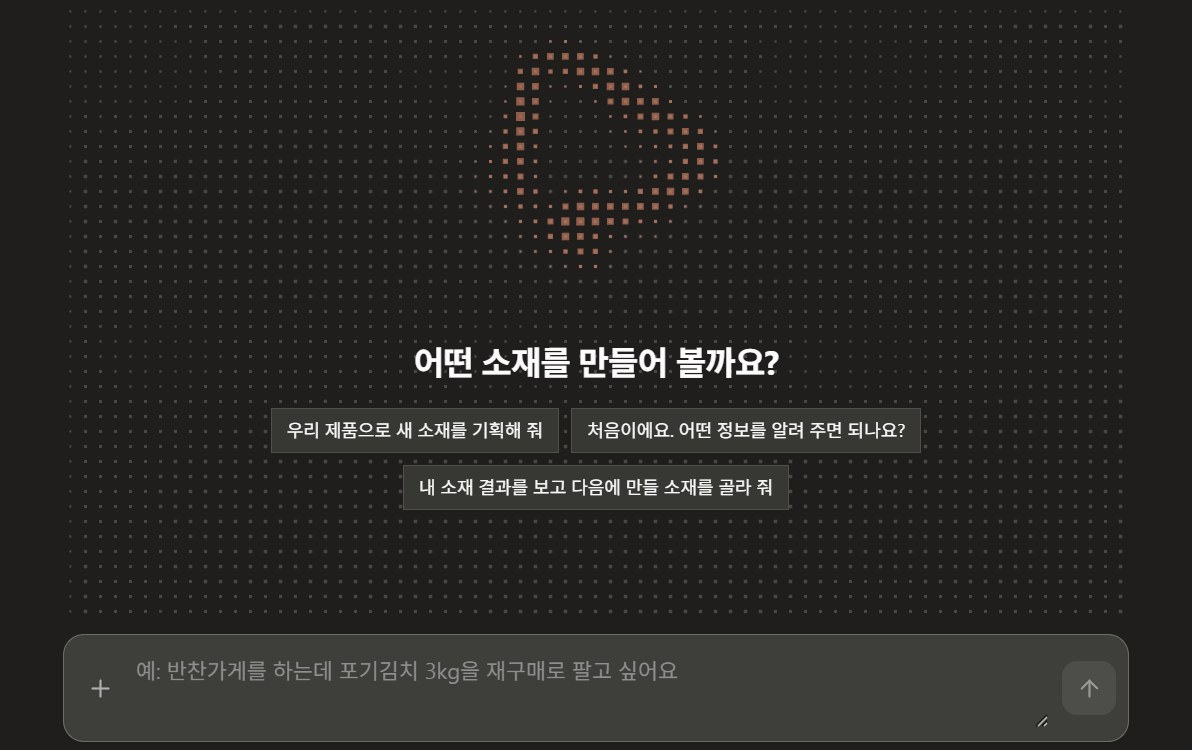
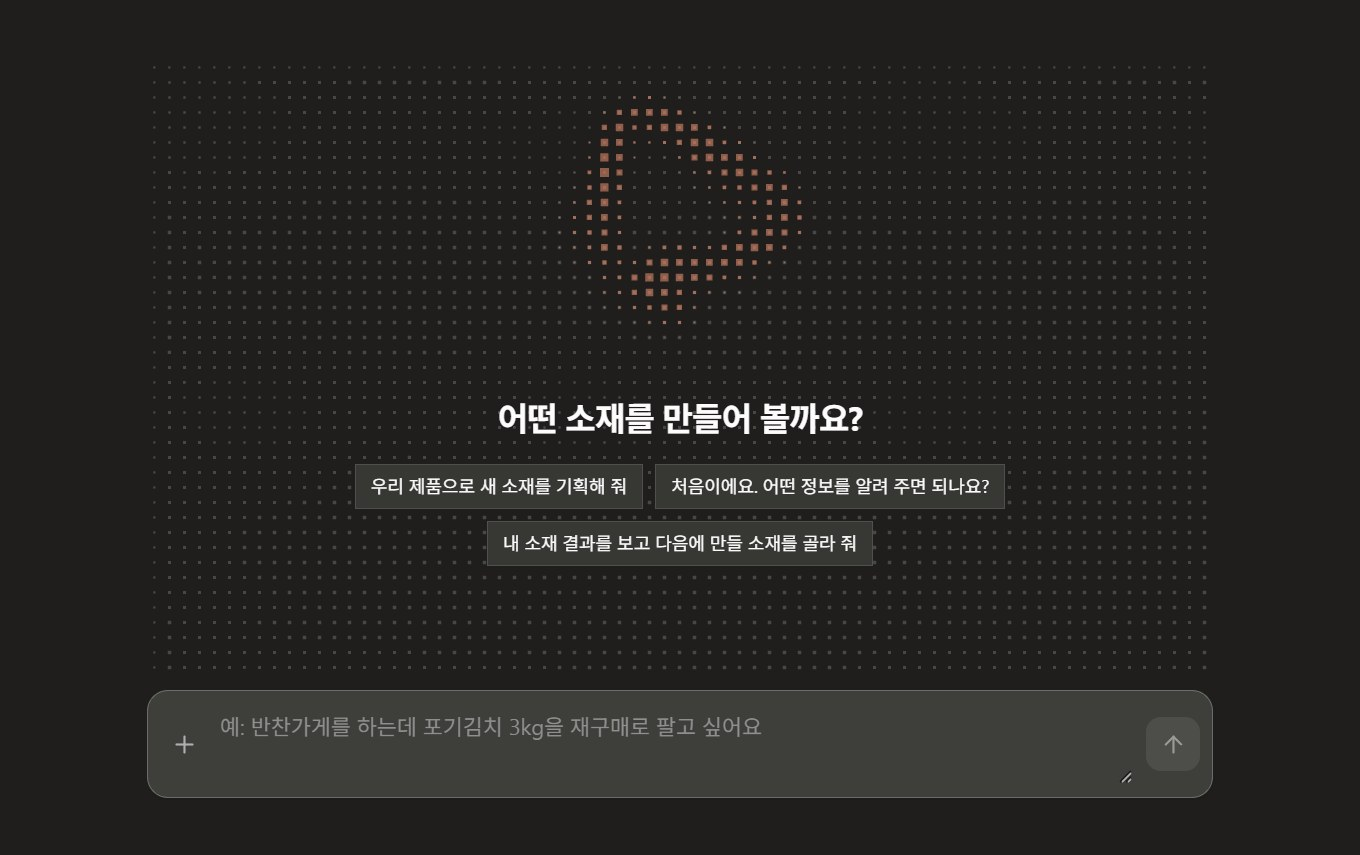
Shortforme deck slide 3: roomier top and bottom margins around the planning chat (signal113c)

diff --git a/index.html b/index.html
@@ -26,7 +26,7 @@
 <section class="ventures wrap section" id="ventures" aria-labelledby="ventures-title">
 <div class="pr-band"><h2 id="ventures-title" data-i18n="prTitle">작은 브랜드의 가능성을<br>결과로 만드는 <em>경험</em></h2><p class="pr-lead" data-i18n="prLead">좋은 제품이 더 많은 사람에게 닿도록.<br>오드시그널은 콘텐츠와 기술을 연결합니다.</p><div class="pr-chart"><div class="pr-graph" role="img" aria-label="2022년부터 현재까지 가파르게 오르는 성장 흐름 개념 그래프. 다섯 지점: MOMENTO 설립, BRAVECOMPANY EXIT, 뉴픽 공동 창업과 창립 1년 매출 10억 원, 뉴픽 100억 밸류 EXIT, 오드시그널 FOUNDER" data-label="prGraphA"><svg class="pr-svg" viewBox="0 0 880 300" aria-hidden="true" focusable="false"><defs><linearGradient id="prArea" x1="0" y1="0" x2="0" y2="1"><stop offset="0" stop-color="#eb5d28" stop-opacity=".42"/><stop offset="1" stop-color="#eb5d28" stop-opacity=".02"/></linearGradient><linearGradient id="prRib" gradientUnits="userSpaceOnUse" x1="88" y1="0" x2="814" y2="0"><stop offset="0" stop-color="#eb5d28" stop-opacity=".3"/><stop offset="1" stop-color="#ff9d70" stop-opacity=".95"/></linearGradient><linearGradient id="prSide" gradientUnits="userSpaceOnUse" x1="0" y1="34" x2="0" y2="280"><stop offset="0" stop-color="#c44a1c" stop-opacity=".8"/><stop offset="1" stop-color="#c44a1c" stop-opacity=".06"/></linearGradient><linearGradient id="prRefl" gradientUnits="userSpaceOnUse" x1="0" y1="280" x2="0" y2="250"><stop offset="0" stop-color="#eb5d28" stop-opacity=".16"/><stop offset="1" stop-color="#eb5d28" stop-opacity="0"/></linearGradient><linearGradient id="prFloor" gradientUnits="userSpaceOnUse" x1="0" y1="266" x2="0" y2="301"><stop offset="0" stop-color="#fff" stop-opacity=".05"/><stop offset="1" stop-color="#fff" stop-opacity="0"/></linearGradient><radialGradient id="prBall" cx=".35" cy=".3" r=".8"><stop offset="0" stop-color="#fff"/><stop offset=".55" stop-color="#d9d2c4"/><stop offset="1" stop-color="#7d776b"/></radialGradient><radialGradient id="prBallEnd" cx=".35" cy=".3" r=".8"><stop offset="0" stop-color="#ffd9c4"/><stop offset=".5" stop-color="#eb5d28"/><stop offset="1" stop-color="#a63a14"/></radialGradient></defs><g class="pr-floor"><path d="M52 266 L872 266 L817 301 L-3 301 Z" fill="url(#prFloor)"/><g class="pr-grid"><line x1="52" y1="266" x2="872" y2="266"/><line x1="13.5" y1="290.5" x2="833.5" y2="290.5"/><line x1="-3" y1="301" x2="817" y2="301"/><line x1="110" y1="266" x2="55" y2="301"/><line x1="198" y1="266" x2="143" y2="301"/><line x1="286" y1="266" x2="231" y2="301"/><line x1="374" y1="266" x2="319" y2="301"/><line x1="462" y1="266" x2="407" y2="301"/><line x1="550" y1="266" x2="495" y2="301"/><line x1="638" y1="266" x2="583" y2="301"/><line x1="726" y1="266" x2="671" y2="301"/><line x1="814" y1="266" x2="759" y2="301"/></g><path class="pr-foot" d="M88 280 L792 280 L814 266 L110 266 Z"/></g><line class="pr-base" x1="30" y1="280" x2="850" y2="280"/><g class="pr-solid"><path class="pr-refl" transform="translate(0 560) scale(1 -1)" d="M88 280 C150 279,205 272,264 266 C323 260,380 248,440 232 C500 216,550 196,616 160 C682 124,720 96,792 48 L792 280 L88 280 Z"/><path class="pr-side" d="M792 48 L814 34 L814 266 L792 280 Z"/><path class="pr-rib" d="M88 280 C150 279,205 272,264 266 C323 260,380 248,440 232 C500 216,550 196,616 160 C682 124,720 96,792 48 L814 34 C742 82,704 110,638 146 C572 182,522 202,462 218 C402 234,345 246,286 252 C227 258,172 265,110 266 Z"/><path class="pr-back" d="M110 266 C172 265,227 258,286 252 C345 246,402 234,462 218 C522 202,572 182,638 146 C704 110,742 82,814 34"/><path class="pr-area" d="M88 280 C150 279,205 272,264 266 C323 260,380 248,440 232 C500 216,550 196,616 160 C682 124,720 96,792 48 L792 280 L88 280 Z"/></g><line class="pr-drop" x1="88" y1="127.6" x2="88" y2="280"/><line class="pr-drop" x1="264" y1="119.9" x2="264" y2="266"/><line class="pr-drop" x1="440" y1="101.2" x2="440" y2="232"/><line class="pr-drop" x1="616" y1="61.6" x2="616" y2="160"/><line class="pr-drop" x1="792" y1="0.0" x2="792" y2="48"/><path class="pr-line" pathLength="1" d="M88 280 C150 279,205 272,264 266 C323 260,380 248,440 232 C500 216,550 196,616 160 C682 124,720 96,792 48"/><circle class="pr-bead" r="4" opacity="0"><animateMotion dur="3.6s" begin="2.2s" repeatCount="indefinite" calcMode="spline" keyPoints="0;1" keyTimes="0;1" keySplines=".45 0 .55 1" path="M88 280 C150 279,205 272,264 266 C323 260,380 248,440 232 C500 216,550 196,616 160 C682 124,720 96,792 48"/><animate attributeName="opacity" values="0;1;1;0" keyTimes="0;.12;.86;1" dur="3.6s" begin="2.2s" repeatCount="indefinite"/></circle><circle class="pr-pulse" cx="792" cy="48" r="8"/><circle class="pr-dot" cx="88" cy="280" r="5.5"/><circle class="pr-hit" cx="88" cy="280" r="24" fill="transparent"/><circle class="pr-dot" cx="264" cy="266" r="5.5"/><circle class="pr-hit" cx="264" cy="266" r="24" fill="transparent"/><circle class="pr-dot" cx="440" cy="232" r="5.5"/><circle class="pr-hit" cx="440" cy="232" r="24" fill="transparent"/><circle class="pr-dot" cx="616" cy="160" r="5.5"/><circle class="pr-hit" cx="616" cy="160" r="24" fill="transparent"/><circle class="pr-dot pr-dot-end" cx="792" cy="48" r="8"/><circle class="pr-hit" cx="792" cy="48" r="24" fill="transparent"/></svg></div><ol class="pr-points"><li><span class="pr-n" data-i18n="prP1y">2022</span><strong data-i18n="prP1t">크리에이터 마케팅사 MOMENTO</strong><span class="pr-d" data-i18n="prP1d">설립</span></li><li><span class="pr-n" data-i18n="prP2y">2023</span><strong data-i18n="prP2t">브랜드 커머스 BRAVECOMPANY</strong><span class="pr-d" data-i18n="prP2d">인수합병 후 EXIT</span></li><li><span class="pr-n" data-i18n="prP3y">2024</span><strong data-i18n="prP3t">콘텐츠 커머스 뉴픽</strong><span class="pr-d" data-i18n="prP3d">공동 창업<b>창립 1년 매출 10억 원 달성</b></span></li><li><span class="pr-n" data-i18n="prP4y">2026</span><strong data-i18n="prP4t">주식회사 뉴픽</strong><span class="pr-d" data-i18n="prP4d">100억 밸류 달성 후 EXIT</span></li><li class="pr-end"><span class="pr-n" data-i18n="prP5y">NOW</span><strong data-i18n="prP5t">오드시그널</strong><span class="pr-d" data-i18n="prP5d">AI 마케팅 플랫폼<b>FOUNDER</b></span></li></ol></div></div>
 <article class="venture shortforme"><div class="venture-visual sf-deck" role="group" aria-roledescription="carousel" aria-label="숏포미 기능 미리보기" data-label="sfDeck"><button type="button" class="deck-zone deck-prev" data-dir="-1" tabindex="-1" aria-hidden="true"><span>←</span></button><button type="button" class="deck-zone deck-next" data-dir="1" tabindex="-1" aria-hidden="true"><span>→</span></button><figure class="sf-slide" id="sf-slide-1" role="tabpanel" aria-labelledby="sf-tab-1"><div class="sf-shot ht-intro sf-intro"><div class="hightemp-visual"><div class="sfi-stage" role="img" aria-label="숏포미 로고: 코랄색 앱 아이콘과 ShortForMe 글자" data-label="sfIntroArt"><img class="sfi-word" src="assets/shortforme-wordmark-white.svg" alt="" width="1109" height="165"><span class="sfi-tile"><svg viewBox="165 150 690 740" aria-hidden="true"><g fill="none" stroke="#111" stroke-width="88" stroke-linecap="round" stroke-linejoin="round" transform="translate(-35 0)"><path d="M268 655C255 625 252 600 252 575V305C252 228 330 188 396 226L782 448C842 483 842 563 782 598C645 677 525 728 405 738"/><path d="M486 640L386 738L486 836"/></g></svg></span></div></div></div></figure><figure class="sf-slide" id="sf-slide-2" role="tabpanel" aria-labelledby="sf-tab-2" hidden><div class="sf-shot"><img src="assets/sf-format-detail.jpg?v=2" alt="실제 숏포미 광고 예시 상세 창: 간편·냉동 상품의 실제 광고 영상과 이럴 때 참고하세요·예시에서 볼 부분 설명, 이 포맷으로 제작 설계 버튼" data-alt="sfFormatAlt" width="1570" height="987" loading="lazy"></div></figure>
-<figure class="sf-slide" id="sf-slide-3" role="tabpanel" aria-labelledby="sf-tab-3" hidden><div class="sf-shot"><img src="assets/sf-planning-chat.jpg" alt="실제 숏포미 소재 기획 대화 화면: 어떤 소재를 만들어 볼까요? 질문과 시작 문장 버튼 세 개, 아래 입력창" data-alt="sfChatAlt" width="1192" height="750" loading="lazy"></div></figure>
+<figure class="sf-slide" id="sf-slide-3" role="tabpanel" aria-labelledby="sf-tab-3" hidden><div class="sf-shot"><img src="assets/sf-planning-chat.jpg?v=2" alt="실제 숏포미 소재 기획 대화 화면: 어떤 소재를 만들어 볼까요? 질문과 시작 문장 버튼 세 개, 아래 입력창" data-alt="sfChatAlt" width="1360" height="855" loading="lazy"></div></figure>
 <div class="sf-tabs" role="tablist" aria-label="숏포미 기능 미리보기 단계" data-label="sfTabs"><button type="button" role="tab" id="sf-tab-1" aria-controls="sf-slide-1" aria-selected="true"><span aria-hidden="true">01</span><span data-i18n="sfTab1">숏포미 소개</span></button><button type="button" role="tab" id="sf-tab-2" aria-controls="sf-slide-2" aria-selected="false" tabindex="-1"><span aria-hidden="true">02</span><span data-i18n="sfTab2">광고 포맷 고르기</span></button><button type="button" role="tab" id="sf-tab-3" aria-controls="sf-slide-3" aria-selected="false" tabindex="-1"><span aria-hidden="true">03</span><span data-i18n="sfTab3">대화로 소재 기획</span></button></div></div>
 <div class="venture-copy"><a href="business.html#shortforme" class="title-area" data-page="business.html" data-hash="#shortforme"><p class="eyebrow muted">SHORT-FORM CREATIVE</p><h3><span class="title-link">Shortforme</span><span class="brand-ko" data-i18n="shortName">숏포미</span></h3></a><div class="sf-copy"><div class="sf-pane is-on"><p class="venture-statement" data-i18n="shortTitle">내 브랜드를 위한 숏폼광고</p><p class="body-copy" data-i18n="shortBody">누구나 숏폼광고가 필요한 시대.<br>한국형 광고 생태계에 검증된 영상 제작 도구를 제공합니다.</p></div><div class="sf-pane"><p class="venture-statement" data-i18n="sf2Title">실제 광고에서 포맷을 고르세요</p><p class="body-copy" data-i18n="sf2Body">업종별 실제 숏폼 광고를 보고, 어떤 상황에 쓰면 좋은지 확인하세요. 마음에 드는 포맷에서 ‘이 포맷으로 제작 설계’를 누르면 내 상품에 맞춘 제작이 시작됩니다.</p></div><div class="sf-pane"><p class="venture-statement" data-i18n="sf3Title">무엇을 만들지, 대화로 정하세요</p><p class="body-copy" data-i18n="sf3Body">브랜드와 상품, 팔고 싶은 상황을 편하게 말해 보세요. AI가 맞는 소재를 추천하고 제작까지 이어 줍니다.</p></div></div><div class="venture-link-row"><span class="status"><span aria-hidden="true"></span><span data-i18n="inService">서비스 중</span></span></div></div></article>
 <article class="venture hightemp ht-v2 ht-mirror"><div class="venture-copy ht-copy"><a href="business.html#hightemp" class="title-area" data-page="business.html" data-hash="#hightemp"><p class="eyebrow muted">FITNESS EDUCATION</p><h3><span class="title-link">Hightemp</span><span class="brand-ko" data-i18n="highName">하이템프</span></h3></a><div class="sf-copy"><div class="sf-pane is-on"><p class="venture-statement" data-i18n="highTitle">내 삶의 변화 그 이상의 가치</p><p class="body-copy" data-i18n="highBody">박재훈의 올라잇클래스를 만나는 온라인 피트니스 교육 브랜드입니다. 웹과 앱의 강의, 피드백 경험을 통해 배운 내용을 실제 훈련으로 연결합니다.</p></div><div class="sf-pane"><p class="venture-statement" data-i18n="ht2Title">배움이 일상이 되고,<br>경험이 기준이 되도록.</p><p class="body-copy" data-i18n="ht2Body">대한민국 1등 바디빌딩 지식을 투영한 오늘의 루틴이 제공됩니다.</p></div><div class="sf-pane"><p class="venture-statement" data-i18n="ht3Title">같은 시간을 쓰더라도 달라지는 결과</p><p class="body-copy" data-i18n="ht3Body">쌓일수록 정확해지는 데이터로<br>스스로 길을 찾을 수 있게</p></div></div><div class="venture-link-row"><span class="status status-lead"><span aria-hidden="true"></span><span>iOS · Android</span></span><span class="status"><span aria-hidden="true"></span><span data-i18n="brandSite">브랜드 사이트</span></span></div></div><div class="venture-visual ht-carousel ht-deck" role="region" aria-roledescription="carousel" aria-label="하이템프 앱 기능 미리보기" data-label="htDeck"><button type="button" class="deck-zone deck-prev" data-dir="-1" tabindex="-1" aria-hidden="true"><span>←</span></button><button type="button" class="deck-zone deck-next" data-dir="1" tabindex="-1" aria-hidden="true"><span>→</span></button><div class="ht-track" tabindex="0"><figure class="ht-slide" role="group" aria-roledescription="slide" aria-label="1 / 3"><div class="sf-shot ht-intro"><div class="hightemp-visual"><p class="hti-word">AllrightClass</p><img src="assets/hightemp-app.jpg" alt="하이템프의 강의 수강과 피드백 앱 소개" data-alt="appAlt" width="2000" height="672" loading="lazy"></div></div></figure><figure class="ht-slide" role="group" aria-roledescription="slide" aria-label="2 / 3"><div class="sf-shot"><img src="assets/ht-stage.jpg?v=20261011b" alt="보디빌딩 대회 무대에서 주먹을 들고 포효하는 선수의 얼굴과 상체" data-alt="htStageAlt" width="1528" height="960" loading="lazy"></div></figure><figure class="ht-slide" role="group" aria-roledescription="slide" aria-label="3 / 3"><div class="sf-shot"><img src="assets/ht-routine.jpg?v=20261011b" alt="어두운 헬스장의 러닝머신에서 달리는 박재훈 선수의 뒷모습과, 하이템프 앱의 강의 재생 화면이 보이는 휴대폰" data-alt="htRoutineAlt" width="1528" height="960" loading="lazy"></div></figure></div><div class="ht-nav"><div class="ht-dots"><button type="button" class="ht-dot" aria-label="1 / 3" aria-current="true"></button><button type="button" class="ht-dot" aria-label="2 / 3" aria-current="false"></button><button type="button" class="ht-dot" aria-label="3 / 3" aria-current="false"></button></div></div></div></article>
